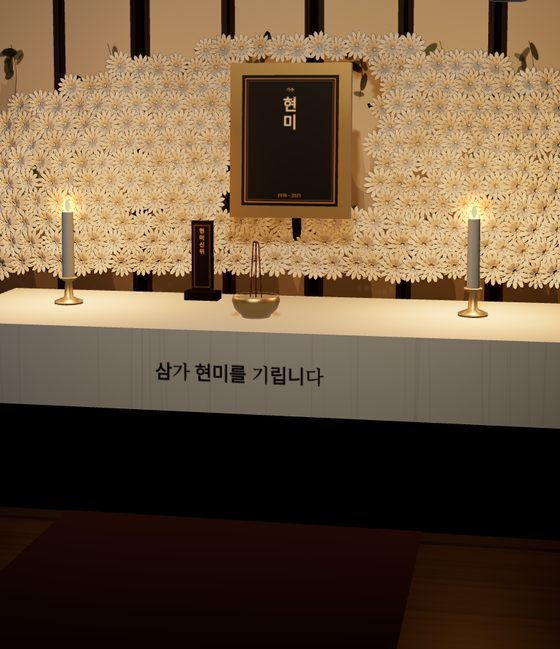
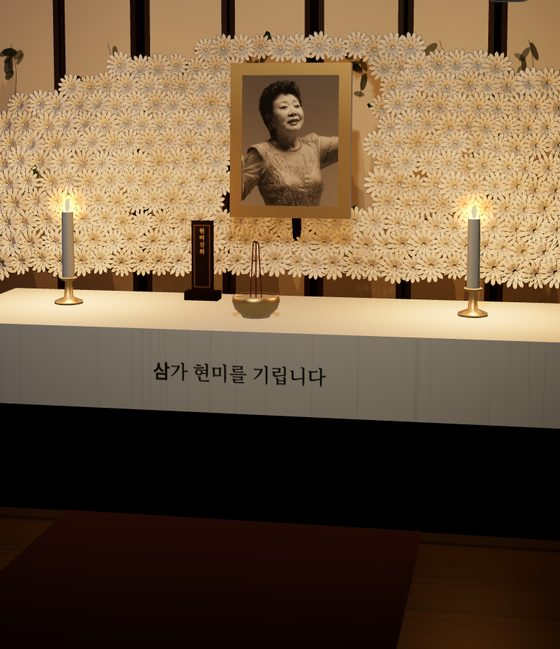
공개 추모관 영정사진 반영, 최불암·안성기 님 추가, 요금표·약관을 새 포인트·등급·저장 한도에 맞춤
Claude-Session: https://claude.ai/code/session_01WvjGqiVXugAiAGwkNjewY5

Changed region(s): [[0.425, 0.0924, 0.6071, 0.339], [0.2732, 0.5547, 0.5768, 0.6163]]

diff --git a/index.html b/index.html
@@ -62,7 +62,7 @@
     <div class="wrap">
       <div class="head">
         <h2 id="how-title">추모관은 이렇게 모십니다</h2>
-        <p>가입이나 결제 없이 바로 시작할 수 있습니다. 사진을 올리고 추모관을 늘리는 데에는 요금을 받지 않습니다.</p>
+        <p>가입이나 결제 없이 바로 시작할 수 있습니다. 추모관을 늘리는 데에는 요금을 받지 않습니다.</p>
       </div>
       <ol class="steps">
         <li><h3>고인 정보 적기</h3><p>성함, 생년월일, 기일과 종교를 적습니다. 음력 기일도 매년 양력 날짜로 바꿔 드립니다.</p></li>
@@ -184,16 +184,16 @@
             <th scope="col">평생<small>199,000원</small></th>
           </tr></thead>
           <tbody>
-            <tr><th scope="row">분향소·장지</th><td class="yes">기본 차림</td><td class="yes">장지 형식 선택</td><td class="yes">테마 확장</td><td class="yes">모든 꾸미기</td><td class="yes">모든 꾸미기</td></tr>
-            <tr><th scope="row">영정사진·사진 올리기</th><td class="yes">무료</td><td class="yes">무료</td><td class="yes">무료</td><td class="yes">무료</td><td class="yes">무료</td></tr>
-            <tr><th scope="row">기일·생신 알림</th><td class="yes">있음</td><td class="yes">있음</td><td class="yes">있음</td><td class="yes">있음</td><td class="yes">있음</td></tr>
-            <tr><th scope="row">비석·석물</th><td class="no">없음</td><td class="yes">있음</td><td class="yes">있음</td><td class="yes">있음</td><td class="yes">있음</td></tr>
-            <tr><th scope="row">추모갤러리·가족 음악</th><td class="no">없음</td><td class="no">없음</td><td class="yes">있음</td><td class="yes">있음</td><td class="yes">있음</td></tr>
-            <tr><th scope="row">고급 장지·대형 수목</th><td class="no">포인트로 구매</td><td class="no">포인트로 구매</td><td class="no">포인트로 구매</td><td class="yes">포함</td><td class="yes">포함</td></tr>
+            <tr><th scope="row">분향·헌화·기일 알림·방명록</th><td class="yes">무제한</td><td class="yes">무제한</td><td class="yes">무제한</td><td class="yes">무제한</td><td class="yes">무제한</td></tr>
+            <tr><th scope="row">추모관마다 사진·영상</th><td>30장 · 1개</td><td>100장 · 3개</td><td>200장 · 5개</td><td>300장 · 10개</td><td>300장 · 10개</td></tr>
+            <tr><th scope="row">저장 공간 (추모관마다)</th><td>150MB</td><td>500MB</td><td>1GB</td><td>2GB</td><td>2GB</td></tr>
+            <tr><th scope="row">장지 형식</th><td class="no">포인트로 구매</td><td class="yes">포함</td><td class="yes">포함</td><td class="yes">포함</td><td class="yes">포함</td></tr>
+            <tr><th scope="row">장소·석물</th><td class="no">포인트로 구매</td><td class="no">포인트로 구매</td><td class="yes">포함</td><td class="yes">포함</td><td class="yes">포함</td></tr>
+            <tr><th scope="row">장지·나무 크기</th><td class="no">포인트로 구매</td><td class="no">포인트로 구매</td><td class="no">포인트로 구매</td><td class="yes">포함</td><td class="yes">포함</td></tr>
           </tbody>
         </table>
       </div>
-      <p class="fine">매일 출석하면 50P, 가족이나 지인에게 공유하면 100P를 드립니다. 포인트는 1P당 1원으로 고급 꾸미기에 씁니다. 매주 한두 가지 꾸미기를 반값에 드립니다.</p>
+      <p class="fine">연간 등급은 구글 플레이 구독이라 언제든 해지할 수 있습니다. 등급에 없는 꾸미기는 포인트로 하나씩 삽니다. 가족이나 지인에게 공유하면 100P(하루 3번)를 드리고, 포인트는 1,000P부터 씁니다. 매주 한두 가지 꾸미기를 반값에 드립니다.</p>
     </div>
   </section>
 
@@ -201,7 +201,7 @@
     <div class="wrap">
       <div class="head"><h2 id="faq-title">자주 묻는 질문</h2></div>
       <div class="faq">
-        <details><summary>정말 무료로 쓸 수 있나요?</summary><p>추모관 만들기, 영정사진, 분향·헌화, 기일 알림, 방명록은 모두 무료입니다. 장지 형식이나 석물 같은 꾸미기를 더하실 때만 요금이 있습니다.</p></details>
+        <details><summary>정말 무료로 쓸 수 있나요?</summary><p>추모관 만들기, 영정사진, 분향·헌화, 기일 알림, 방명록은 모두 무료이고, 추모관마다 사진 30장과 영상 1개까지 무료로 담을 수 있습니다. 더 많이 담거나 고급 꾸미기를 쓰실 때만 요금이 있습니다.</p></details>
         <details><summary>올린 사진은 어디에 보관되나요?</summary><p>지금은 가족이 올린 사진과 영상이 회사 서버로 가지 않고 휴대폰 안에만 보관됩니다. 가족이 함께 보는 기능이 생기면 시행 7일 전에 미리 알려 드립니다.</p></details>
         <details><summary>음력 기일도 챙겨 주나요?</summary><p>네. 음력 기일을 적으시면 해마다 양력 날짜를 다시 계산해 일주일 전, 전날, 당일에 알려 드립니다. 2월 29일 같은 날짜도 처리합니다.</p></details>
         <details><summary>공개 추모관에 계신 분의 유족입니다. 내려 줄 수 있나요?</summary><p>네. 아래 이메일로 연락 주시면 확인 즉시 내립니다. 사진이나 내용을 바꾸고 싶으신 경우에도 말씀해 주세요.</p></details>
@@ -239,12 +239,12 @@
 
 <script>
 const FIGS = [
+  { code: 'CHBA-1940', name: '최불암', role: '배우', years: '1940–2026', line: "'전원일기' 김 회장, 우리 시대의 국민 아버지", rest: '경기 파주 동화경모공원', grave: '천주교 묘 · 잔디 언덕' },
+  { code: 'ASGI-1952', name: '안성기', role: '배우', years: '1952–2026', line: '아역부터 70년 가까이 한국 영화와 함께한 국민 배우', rest: '경기 양평 별그리다', grave: '천주교 묘 · 산 중턱' },
   { code: 'LSJE-1934', name: '이순재', role: '배우', years: '1934–2025', line: '70년 가까이 무대와 화면을 지킨 국민 배우', rest: '경기 이천 에덴낙원', grave: '봉안묘 · 소나무 숲' },
   { code: 'KSUM-1949', name: '김수미', role: '배우', years: '1949–2024', line: "'일용 엄니'로 기억되는 국민 엄니", rest: '경기 용인 아너스톤', grave: '봉안묘 · 꽃동산' },
-  { code: 'KMGI-1951', name: '김민기', role: '가수 · 학전 대표', years: '1951–2024', line: "'아침이슬'의 노래, 대학로 학전의 뒷것", rest: '충남 천안공원묘원', grave: '비석형 묘 · 산' },
   { code: 'HYMI-1938', name: '현미', role: '가수', years: '1938–2023', line: "'밤안개'로 한 시대를 노래한 가수", rest: '미국, 가족 곁', grave: '호숫가 · 노을' },
   { code: 'SONG-1927', name: '송해', role: '방송인 · 전국노래자랑 MC', years: '1927–2022', line: '일요일 낮을 함께한 영원한 국민 MC', rest: '대구 달성군, 부인 곁', grave: '부부 가족묘' },
-  { code: 'LEEO-1933', name: '이어령', role: '문학평론가 · 초대 문화부 장관', years: '1933–2022', line: '우리 시대의 지성, 굴렁쇠 소년의 꿈', rest: '', grave: '비석형 묘 · 소나무 숲' },
 ];
 const box = document.querySelector('.figures');
 box.innerHTML = FIGS.map((f) => `

diff --git a/terms.html b/terms.html
@@ -12,7 +12,7 @@
 <header class="top"><div class="wrap"><a class="brand" href="index.html"><img src="icon.png" alt="">공감 추모원</a><nav aria-label="문서"><a href="privacy.html">개인정보처리방침</a><a href="terms.html">이용약관</a><a class="cta" href="index.html">홈으로</a></nav></div></header>
 <main class="wrap doc">
 <h1>이용약관</h1>
-<p class="meta">시행일 2026년 11월 9일 · 라도그(이하 "회사")</p>
+<p class="meta">시행일 2026년 11월 17일 (개정 안내 2026년 11월 10일) · 라도그(이하 "회사")</p>
 
 <h2>제1조 목적</h2>
 <p>이 약관은 회사가 제공하는 공감 추모원 앱과 관련 서비스(이하 "서비스")의 이용 조건과 절차, 회사와 이용자의 권리·의무를 정합니다.</p>
@@ -22,18 +22,21 @@
 
 <h2>제3조 유료 서비스</h2>
 <ul>
-<li><b>이용 등급</b>: 기본(연 9,900원), 중급(연 29,900원), 프리미엄(연 39,000원) 구독과 평생 이용권(199,000원)이 있습니다. 구독은 구글 플레이에서 해지할 수 있고, 해지해도 남은 기간까지 이용할 수 있습니다.</li>
-<li><b>고급 꾸미기</b>: 고급 장지·석물·나무 크기 등은 포인트로 구매하며, 구매한 꾸미기는 해당 추모관에 영구히 적용됩니다.</li>
+<li><b>이용 등급</b>: 기본(연 9,900원), 중급(연 29,900원), 프리미엄(연 39,000원)은 구글 플레이 연간 구독이며 해지하지 않으면 매년 자동으로 갱신됩니다. 해지해도 이미 결제한 기간이 끝날 때까지 이용할 수 있습니다. 평생 이용권(199,000원)은 한 번 결제로 기간 제한 없이 이용합니다.</li>
+<li><b>등급별 혜택</b>: 기본은 장지 형식, 중급은 장지 형식·장소·석물, 프리미엄과 평생 이용권은 모든 꾸미기가 포함됩니다.</li>
+<li><b>저장 한도</b>: 추모관마다 무료 사진 30장·영상 1개(150MB), 기본 사진 100장·영상 3개(500MB), 중급 사진 200장·영상 5개(1GB), 프리미엄·평생 사진 300장·영상 10개(2GB)까지 담을 수 있습니다. 영상은 한 개에 100MB, 음악은 한 곡에 15MB까지이며, 사진은 화면에 맞는 크기로 줄여 저장합니다. 구독이 끝나도 이미 담은 사진과 기록은 지우지 않으며, 새로 담는 것만 무료 한도를 따릅니다.</li>
+<li><b>고급 꾸미기</b>: 등급에 포함되지 않은 고급 장지·석물 등은 포인트로 구매하며, 구매한 꾸미기는 해당 추모관에 영구히 적용됩니다.</li>
 <li>모든 결제는 구글 플레이 결제로 처리되며, 가격은 결제 화면에 표시된 금액(부가세 포함)이 적용됩니다.</li>
 </ul>
 
 <h2>제4조 포인트</h2>
 <ul>
 <li>포인트는 1P를 1원처럼 서비스 안의 유료 꾸미기 구매에 쓸 수 있습니다. 현금으로 바꾸거나 다른 사람에게 넘길 수 없습니다.</li>
-<li><b>충전 포인트</b>: 구글 플레이 결제로 산 포인트입니다. 유효기간은 충전일로부터 5년입니다.</li>
-<li><b>적립 포인트</b>: 출석(하루 50P)과 공유·초대(1회 100P, 하루 5회까지)로 무료로 받은 포인트입니다. 유효기간은 적립일로부터 1년이며 환불 대상이 아닙니다.</li>
+<li>포인트는 가진 포인트가 1,000P 이상일 때부터 쓸 수 있습니다.</li>
+<li><b>충전 포인트</b>: 구글 플레이 결제로 산 포인트입니다. 충전일로부터 5년 동안 쓸 수 있습니다.</li>
+<li><b>적립 포인트</b>: 공유·초대 1회에 100P, 하루 3회까지 무료로 받는 포인트입니다. 마지막으로 포인트를 쓴 날(쓴 적이 없으면 처음 적립한 날)로부터 30일 동안 쓰지 않으면 사라지며, 환불 대상이 아닙니다.</li>
 <li>포인트를 쓸 때는 적립 포인트가 먼저 쓰입니다.</li>
-<li>부정한 방법으로 받은 포인트는 회수할 수 있습니다.</li>
+<li>부정한 방법으로 받은 포인트와, 결제를 취소·환불받은 충전 포인트로 산 꾸미기는 회수할 수 있습니다.</li>
 </ul>
 
 <h2>제5조 청약철회와 환불</h2>
